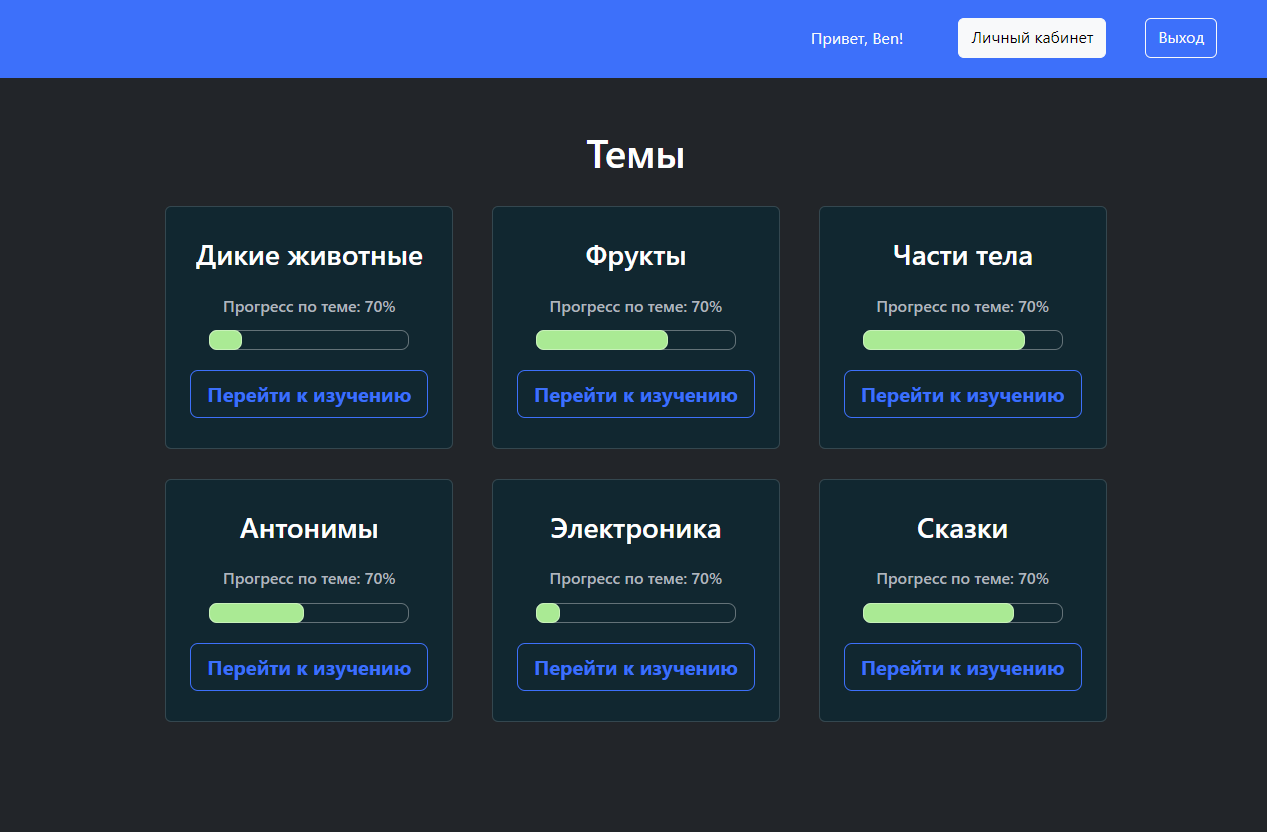
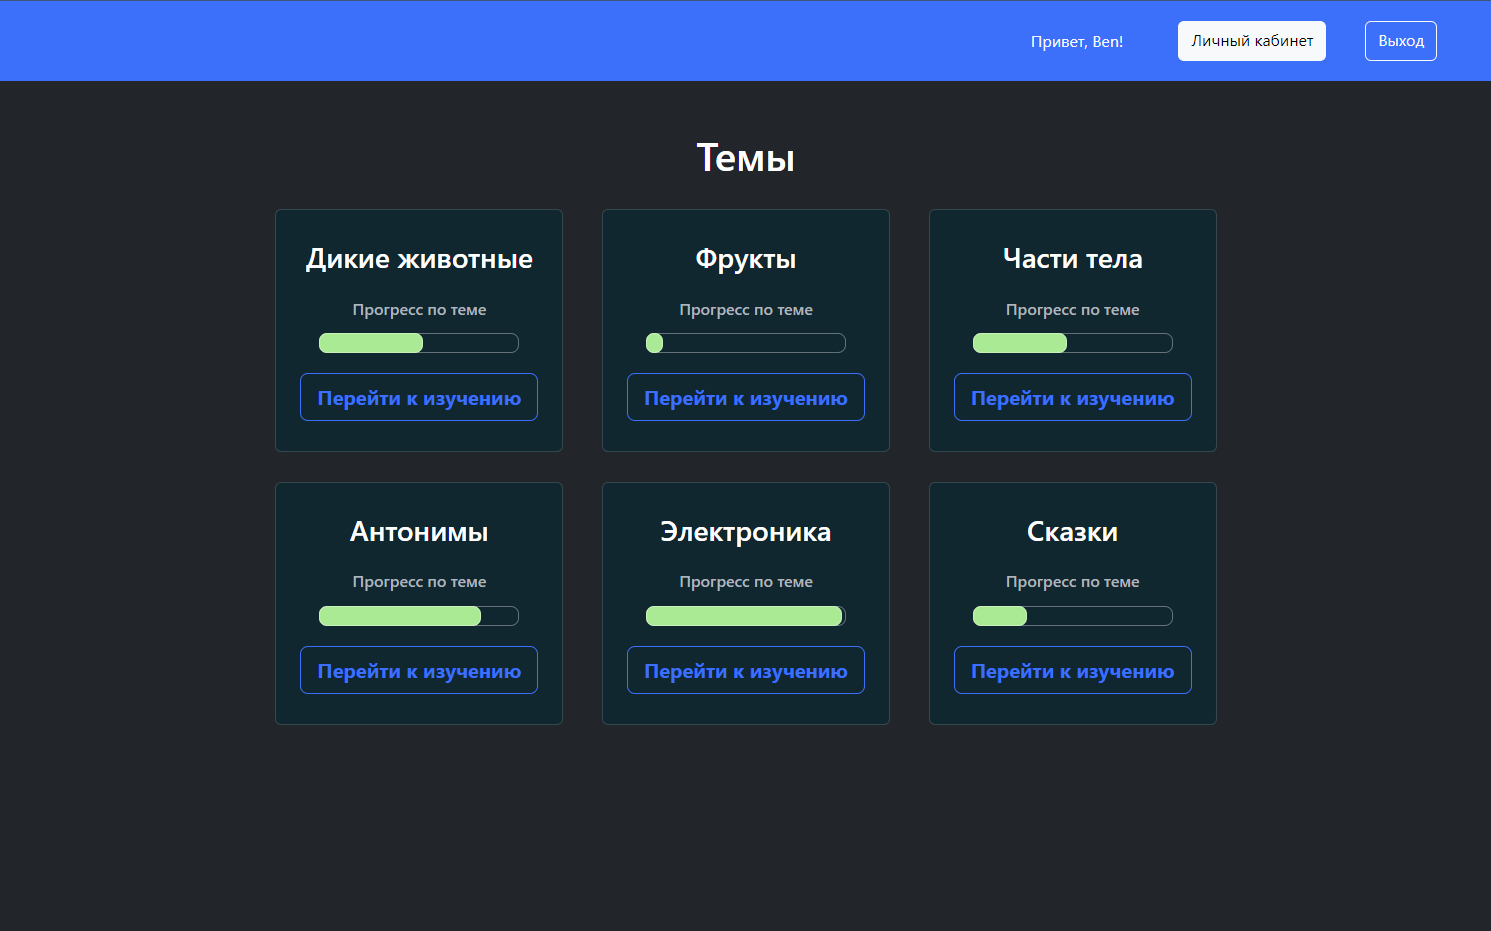
Remove percentage from theme page. Update file choose-theme_page

diff --git a/components/ThemesPage.jsx b/components/ThemesPage.jsx
@@ -18,7 +18,8 @@ function ThemesPage({ themes = [], progressInfo, user }) {
               <div className="card bg-info-subtle" style={{ width: '18rem' }}>
                 <div className="card-body">
                   <h5 className="card-title text-white fs-3">{theme.theme_title}</h5>
-                  <h6 className="card-progress-title">Прогресс по теме: {`${getWidth()[1]}`}%</h6>
+                  {/* <h6 className="card-progress-title">Прогресс по теме: {`${getWidth()[1]}`}%</h6> */}
+                  <h6 className="card-progress-title">Прогресс по теме</h6>
                   <div className="card-progress-common">
                     <div className="progress-bar" style={{ width: '200px' }}></div>
                     <div className="progress-bar" style={{ backgroundColor: 'lightgreen', width: `${getWidth()[0]}` }}></div>
